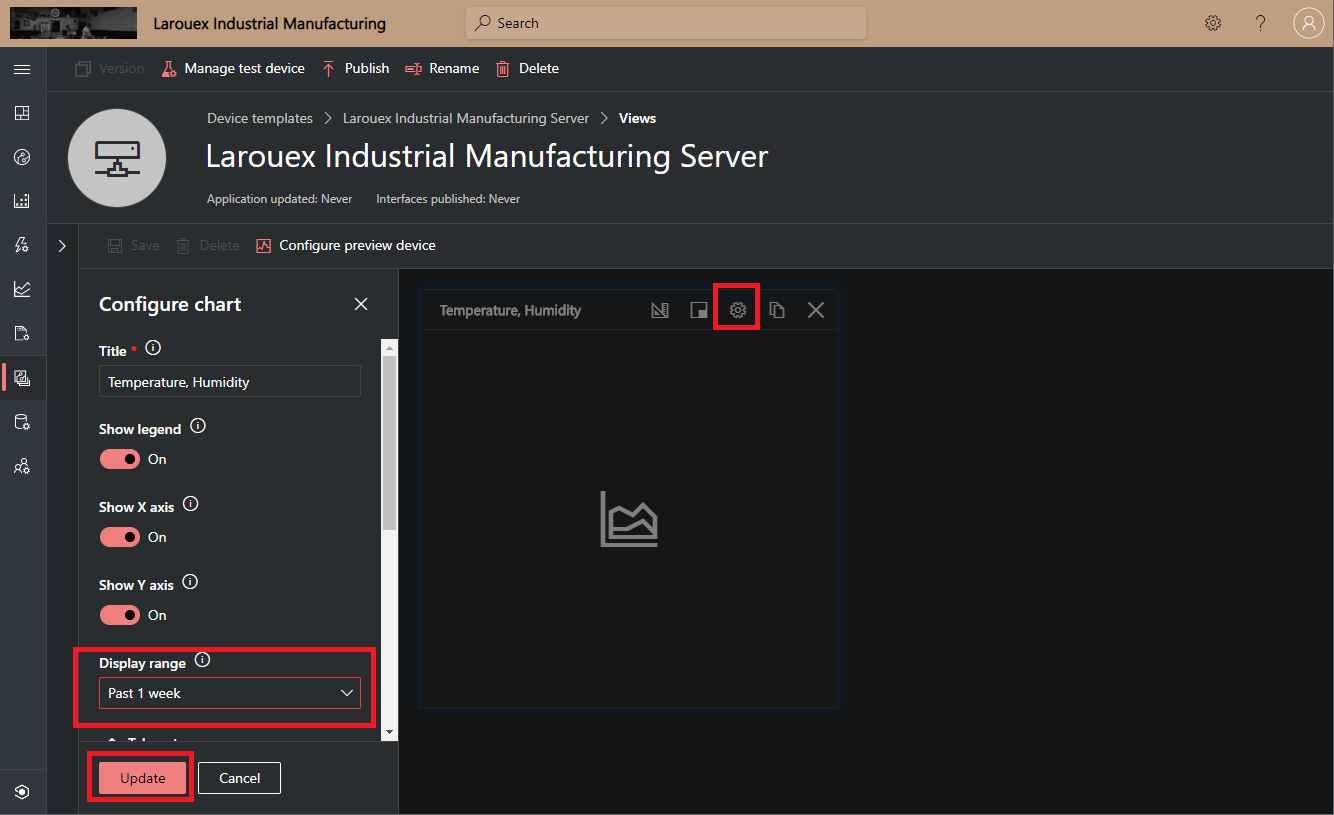
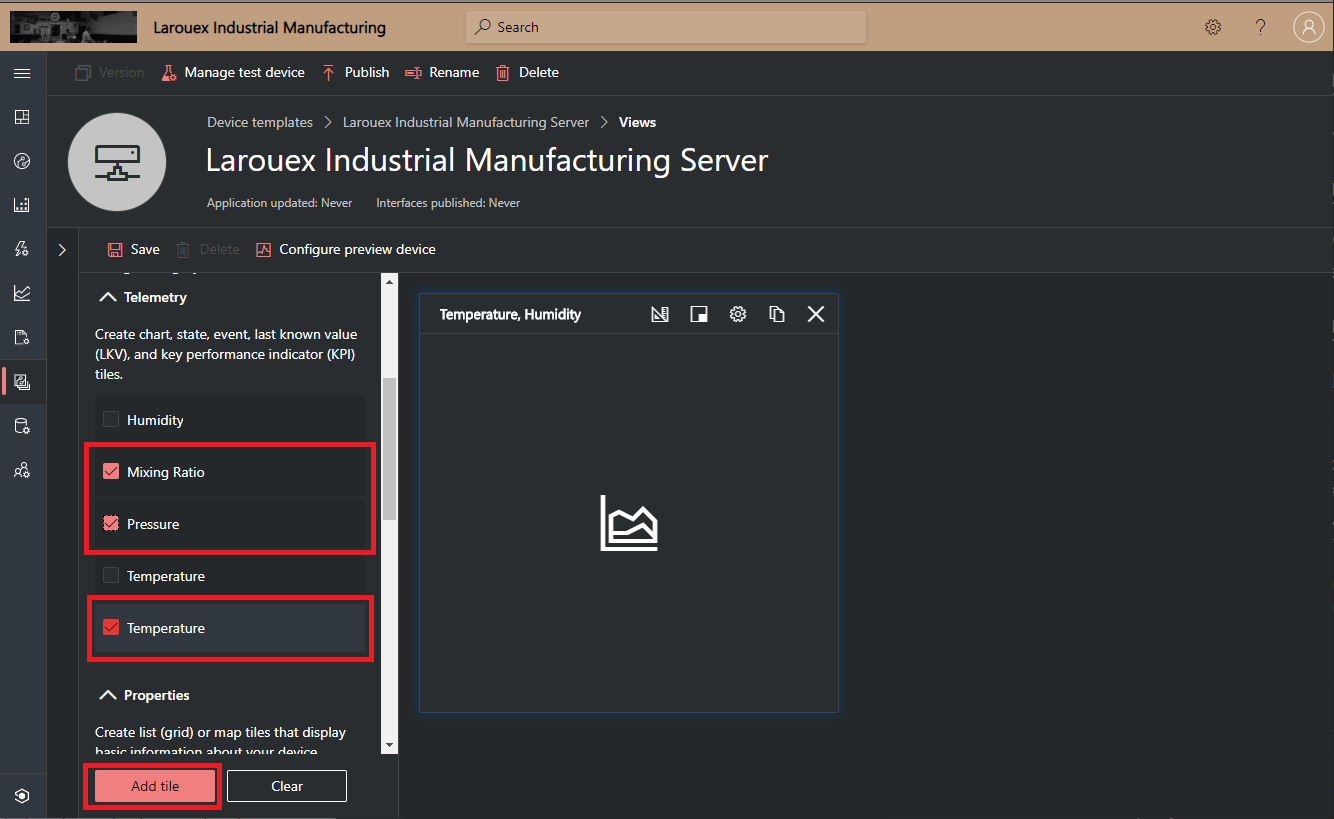
Readme Update #14

diff --git a/README.md b/README.md
@@ -234,11 +234,11 @@ Let's get started at IoT Central and create an application [LINK: Welcome to IoT
 
 ## Let's Create the Visualizations
 
-* Click the "Views" on the left and click on the tile "Visualizing the device"
+* Click the "Views" on the left and click on the tile "Visualizing the device".
 
   ![alt text](./Assets/azure_iot_central-device-template-view-1.png "Visualization Step 1")
 
-* Enter "Main" in the "View Name" and click the "Save" button
+* Enter "Main" in the "View Name" and click the "Save" button.
 
   ![alt text](./Assets/azure_iot_central-device-template-view-2.png "Visualization Step 2")
 
@@ -246,18 +246,34 @@ Now we are going to add Telemetry tiles to the view. In the image below, you can
 
   ![alt text](./Assets/azure_iot_central-device-template-view-3.png "Visualization Step 3")
 
-* Select the "AmbientInterface" telemetry items "Temperature" and "Humidity" and click the "Add tile" Button
+* Select the "AmbientInterface" telemetry items "Temperature" and "Humidity" and click the "Add tile" Button.
 
   ![alt text](./Assets/azure_iot_central-device-template-view-4.png "Visualization Step 4")
 
-* Click the "Left Pointer" on the Device Templete pane to collapse the window and give us a bit more room to edit
+* Click the "Left Pointer" on the Device Templete pane to collapse the window and give us a bit more room to edit.
 
   ![alt text](./Assets/azure_iot_central-device-template-view-5.png "Visualization Step 5")
 
-* Click the "Gear" icon on the "Temperature. Humidity" tile and from the "Display range" select "Past 1 Week" for the time range we will show on all of our telemetry visualizations.
+* Click the "Gear" icon on the "Temperature. Humidity" tile and from the "Display range" select "Past 1 Week" for the time range we will show on all of our telemetry visualizations. Click on the "Update" button to save your edits.
 
   ![alt text](./Assets/azure_iot_central-device-template-view-6.png "Visualization Step 6")
 
+* Select the "ProcessInterface" telemetry items "Mixing Ratio", "Pressure" and "Temperature" and click the "Add tile" Button.
+
+  ![alt text](./Assets/azure_iot_central-device-template-view-7.png "Visualization Step 7")
+
+* Click the "Gear" icon on the "Temperature, Mixing Ratio, Pressure" tile and from the "Display range" select "Past 1 Week" for the time range. Click on the "Update" button to save your edits.
+
+  ![alt text](./Assets/azure_iot_central-device-template-view-8.png "Visualization Step 8")
+
+* Click the "Save" icon to save our view.
+
+* Click the "Publish" icon on the main toolbar at the top of the application and click the "Publisf" button on the review dialog.
+
+  ![alt text](./Assets/azure_iot_central-device-template-view-9.png "Visualization Step 9")
+
+## Congratulations! Azure IoT Central is configured and ready.
+ 
 ## Running the "OPC Server" Application
 
 ### Configuration
